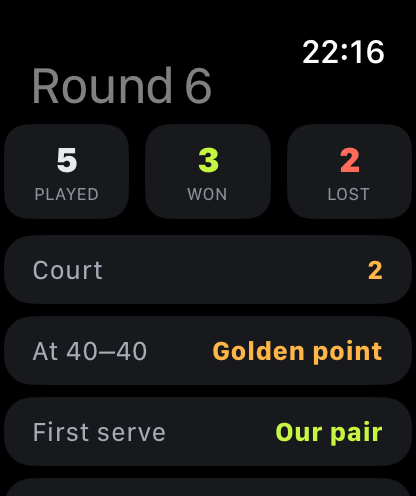
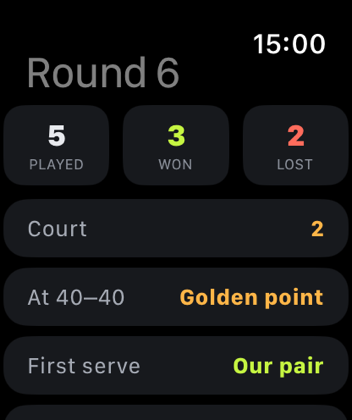
Fit the Americano rows around the tournament row that already shipped
The merge brought in "Score a whole tournament" from 1.1, which my local clone
was too old to know about. So the Americano row no longer re-explains King/Queen
— that section is directly above it now — and both new rows sit beside it rather
than three sections away, keeping the tournament story in one place.

My Watch shots renumbered to 09 and 10, behind the 07 and 08 that 1.1 already
used. And watch-08-round.png is recaptured: it dates from 22 September, a week
before the serve bar moved out of its 40pt column, so it was showing a design
the app no longer has.

Changed region(s): [[0.7188, 0.0619, 0.9375, 0.1548]]

diff --git a/index.html b/index.html
@@ -393,32 +393,7 @@
 
   <section class="feature">
     <div>
-      <span class="tag">On the court</span>
-      <h2>One tap between points</h2>
-      <p>
-        Tap the bottom for your pair, the top for theirs. The zones are big enough
-        to hit while you're catching your breath and walking back to position.
-      </p>
-      <ul class="points">
-        <li><strong>Every padel rule.</strong> Advantage, golden point, or the new star point.</li>
-        <li><strong>Tie-breaks and super tie-breaks</strong>, with the real serve rotation.</li>
-        <li><strong>Serve tracking</strong> — who serves, from which side, and when it changes.</li>
-        <li><strong>Undo</strong>, because everyone taps the wrong side eventually.</li>
-      </ul>
-    </div>
-    <div class="shot-col">
-      <div class="watch-solo">
-        <img src="assets/watch-04-tie-break.png" alt="Apple Watch showing a tie-break scoreboard with the tie-break indicator.">
-      </div>
-      <div class="watch-solo">
-        <img src="assets/watch-01-setup.png" alt="Match setup on Apple Watch with mode, format, the rule at 40-40 and tie-break options.">
-      </div>
-    </div>
-  </section>
-
-  <section class="feature">
-    <div>
-      <span class="tag">New</span>
+      <span class="tag">New in 1.2</span>
       <h2>Americano, scored properly</h2>
       <p>
         Partners change every round, everyone plays for themselves, and you bank the
@@ -429,12 +404,11 @@
         <li><strong>Every round banks its games</strong> straight into your personal total.</li>
         <li><strong>A level round is just level.</strong> Americano records no win and no loss, so 3&ndash;3 costs you nothing.</li>
         <li><strong>An unfinished game doesn't count</strong>, the way the club plays it.</li>
-        <li><strong>King/Queen of the Court too</strong> &mdash; numbered courts, climb the draw, and a crown if you take the last round on court one.</li>
       </ul>
     </div>
     <div class="shot-col">
       <div class="watch-solo">
-        <img src="assets/watch-07-americano-result.png" alt="An Americano round result on Apple Watch: 7 games to 5, seven points banked and a running session total of 38.">
+        <img src="assets/watch-09-americano-result.png" alt="An Americano round result on Apple Watch: 7 games to 5, seven points banked and a running session total of 38.">
       </div>
       <div class="phone">
         <img src="assets/08-americano-session.png" alt="An Americano session on iPhone: 27 points, a points-per-round chart, the points earned breakdown and the rounds played.">
@@ -444,7 +418,7 @@
 
   <section class="feature">
     <div>
-      <span class="tag">New</span>
+      <span class="tag">New in 1.2</span>
       <h2>Your tournaments, counted</h2>
       <p>
         A session is one workout and many rounds, and every point in it is recorded
@@ -464,7 +438,32 @@
         <img src="assets/09-tournament-stats.png" alt="The Tournaments tab in Statistics on iPhone: sessions, rounds, games and time on court, a session list, and serving percentages from tournament rounds.">
       </div>
       <div class="watch-solo">
-        <img src="assets/watch-08-americano-summary.png" alt="An Americano session summary on Apple Watch: 18 points across 4 rounds, with average heart rate, calories and distance.">
+        <img src="assets/watch-10-americano-summary.png" alt="An Americano session summary on Apple Watch: 18 points across 4 rounds, with average heart rate, calories and distance.">
+      </div>
+    </div>
+  </section>
+
+  <section class="feature">
+    <div>
+      <span class="tag">On the court</span>
+      <h2>One tap between points</h2>
+      <p>
+        Tap the bottom for your pair, the top for theirs. The zones are big enough
+        to hit while you're catching your breath and walking back to position.
+      </p>
+      <ul class="points">
+        <li><strong>Every padel rule.</strong> Advantage, golden point, or the new star point.</li>
+        <li><strong>Tie-breaks and super tie-breaks</strong>, with the real serve rotation.</li>
+        <li><strong>Serve tracking</strong> — who serves, from which side, and when it changes.</li>
+        <li><strong>Undo</strong>, because everyone taps the wrong side eventually.</li>
+      </ul>
+    </div>
+    <div class="shot-col">
+      <div class="watch-solo">
+        <img src="assets/watch-04-tie-break.png" alt="Apple Watch showing a tie-break scoreboard with the tie-break indicator.">
+      </div>
+      <div class="watch-solo">
+        <img src="assets/watch-01-setup.png" alt="Match setup on Apple Watch with mode, format, the rule at 40-40 and tie-break options.">
       </div>
     </div>
   </section>
